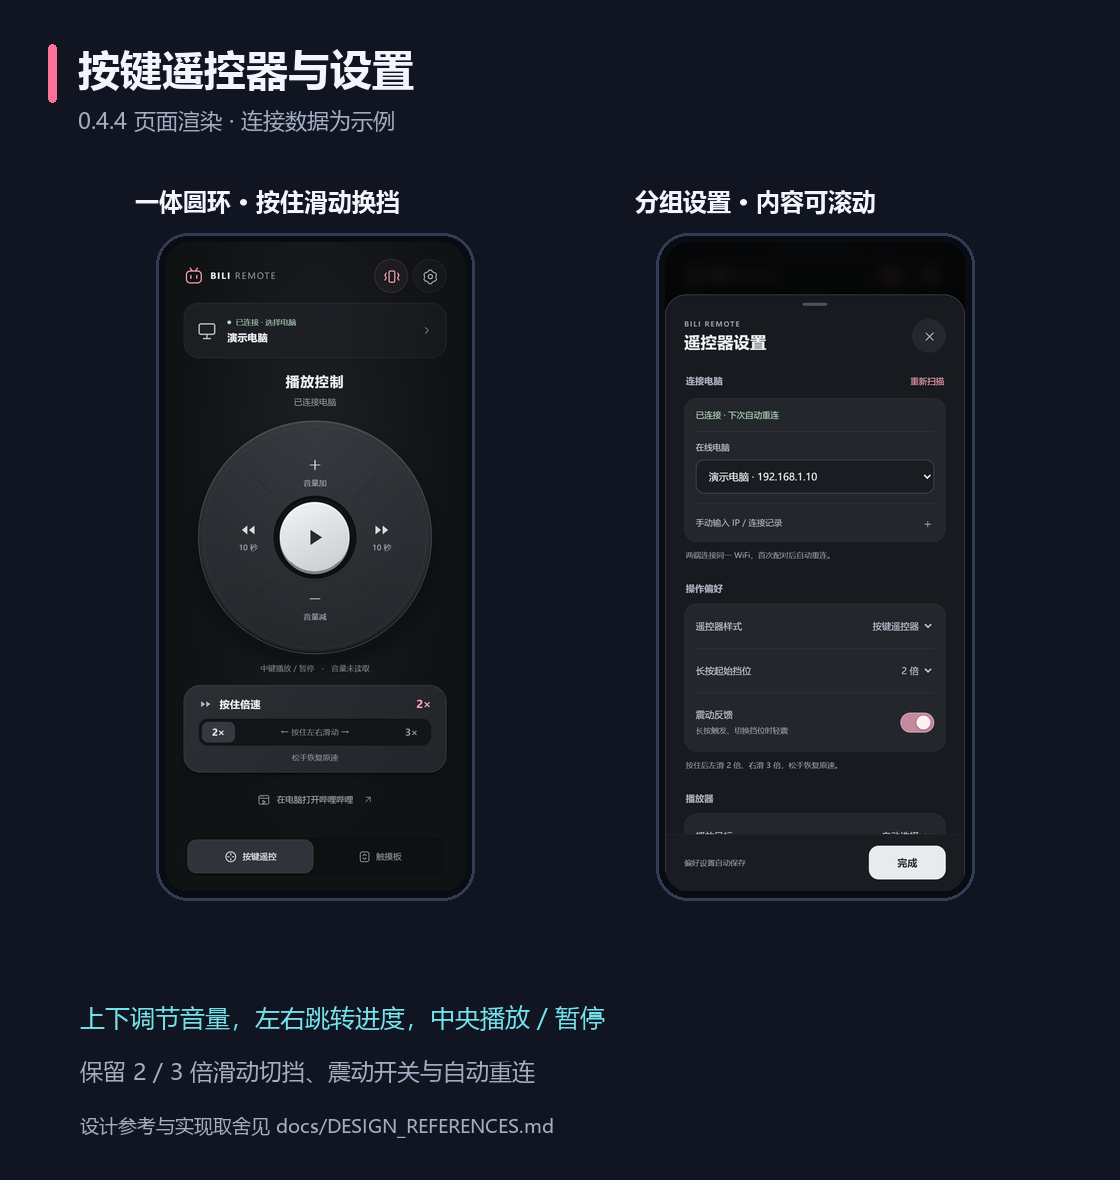
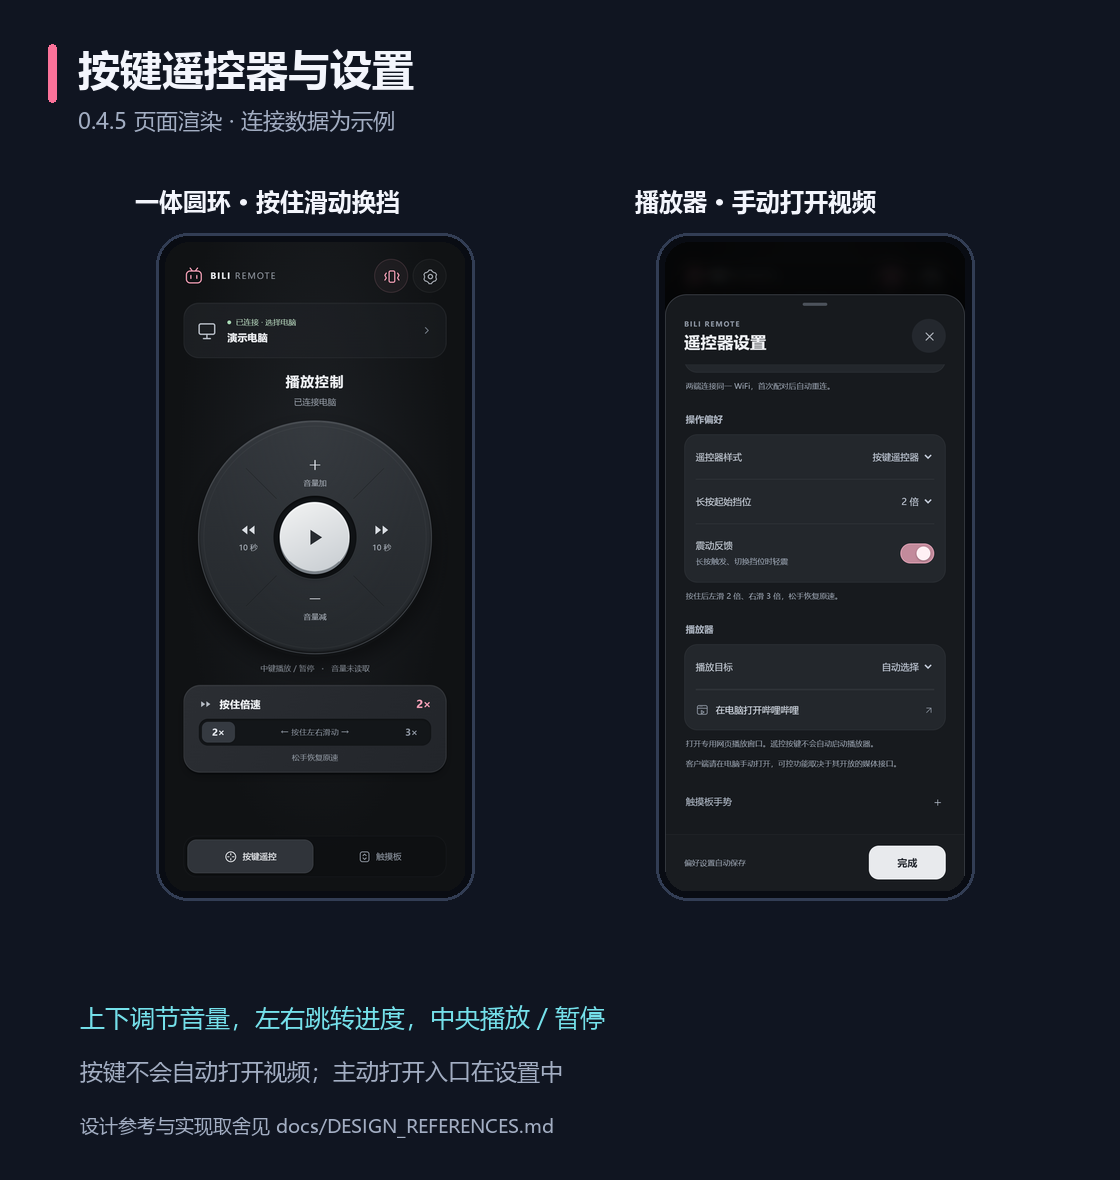
fix: open playback windows only on explicit user action

diff --git a/android/app/src/main/assets/index.html b/android/app/src/main/assets/index.html
@@ -18,7 +18,6 @@
   </section>
   <div class="playback-status"><span>中键播放 / 暂停</span><span class="status-divider"></span><span id="volumeText" aria-live="polite">音量未读取</span></div>
   <button id="holdSpeed" class="hold-speed" aria-label="按住倍速，左滑 2 倍，右滑 3 倍"><span class="speed-topline"><svg viewBox="0 0 24 24" aria-hidden="true"><path d="m4 7 7 5-7 5Zm9 0 7 5-7 5Z"/></svg><span class="speed-copy">按住倍速</span><span id="holdRate">2×</span></span><span class="speed-track" aria-hidden="true"><span class="speed-detent detent-two">2×</span><span class="speed-direction">← 按住左右滑动 →</span><span class="speed-detent detent-three">3×</span></span><span class="speed-caption">松手恢复原速</span></button>
-  <button id="launchBrowser" class="launch-browser"><svg viewBox="0 0 24 24" aria-hidden="true"><rect x="3" y="4" width="18" height="16" rx="3"/><path d="M3 9h18m-13-3h.1m3 0h.1m-1 7 5 3-5 3Z"/></svg><span>在电脑打开哔哩哔哩</span><svg class="launch-arrow" viewBox="0 0 24 24" aria-hidden="true"><path d="M7 17 17 7M7 7h10v10"/></svg></button>
   <footer aria-label="遥控样式"><button class="style-tab selected" data-style="remote" aria-pressed="true"><svg viewBox="0 0 24 24" aria-hidden="true"><circle cx="12" cy="12" r="9"/><path d="M12 6v3m0 6v3m-6-6h3m6 0h3"/></svg>按键遥控</button><button class="style-tab" data-style="touchpad" aria-pressed="false"><svg viewBox="0 0 24 24" aria-hidden="true"><rect x="4" y="3" width="16" height="18" rx="4"/><path d="m9 10 3-3 3 3m-6 4 3 3 3-3"/></svg>触摸板</button></footer>
 </main>
 <div id="hud" role="status"></div>
@@ -39,7 +38,8 @@
     <section class="settings-section" aria-labelledby="playerTitle"><div class="section-title"><h3 id="playerTitle">播放器</h3></div><div class="settings-card">
       <label class="setting-row"><span>播放目标</span><select id="target"><option value="auto">自动选择</option><option value="browser">网页播放窗口</option><option value="native">Windows 客户端</option></select></label>
       <div id="nativeSettings" hidden><label class="computer-field">媒体会话<select id="session"><option value="">自动识别哔哩哔哩</option></select></label><button type="button" id="discover" class="secondary">检测客户端</button></div>
-    </div><p class="section-note">客户端可控功能取决于其开放的媒体接口。</p></section>
+      <button id="launchBrowser" type="button" class="launch-browser"><svg viewBox="0 0 24 24" aria-hidden="true"><rect x="3" y="4" width="18" height="16" rx="3"/><path d="M3 9h18m-13-3h.1m3 0h.1m-1 7 5 3-5 3Z"/></svg><span>在电脑打开哔哩哔哩</span><svg class="launch-arrow" viewBox="0 0 24 24" aria-hidden="true"><path d="M7 17 17 7M7 7h10v10"/></svg></button>
+    </div><p id="browserMessage" class="section-note" role="status">打开专用网页播放窗口。遥控按键不会自动启动播放器。</p><p class="section-note">客户端请在电脑手动打开，可控功能取决于其开放的媒体接口。</p></section>
     <details class="gesture-guide"><summary>触摸板手势<span aria-hidden="true">＋</span></summary><dl><div><dt>轻点</dt><dd>播放 / 暂停</dd></div><div><dt>上下滑</dt><dd>调节音量</dd></div><div><dt>左右滑</dt><dd>快进 / 快退</dd></div><div><dt>原地长按</dt><dd>临时倍速</dd></div></dl><p class="section-note">双指触摸或 Android 返回键打开设置。</p></details>
   </div>
   <div class="sheet-actions"><span>偏好设置自动保存</span><button type="submit" class="primary">完成</button></div>

diff --git a/android/app/src/main/assets/app.css b/android/app/src/main/assets/app.css
@@ -62,9 +62,10 @@ body.connected .device-caption{color:#b0cfb7}
 .speed-caption{text-align:center;color:#959da7;font-size:10px;line-height:1.2}
 .hold-speed.holding{border-color:#f6a0b780;background:#30272c;box-shadow:inset 0 2px 6px #0005,0 1px 0 #0a0c0e;transform:translateY(2px)}
 .holding:not(.gear-three) .detent-two,.holding.gear-three .detent-three{background:var(--accent);color:#332029}
-.launch-browser{display:flex;justify-content:center;align-items:center;gap:9px;min-height:44px;padding:8px;border:0;border-radius:12px;background:transparent;color:#a5acb6;font-size:11px}
+.launch-browser{display:flex;align-items:center;gap:9px;width:100%;min-height:52px;padding:12px 0;border:0;border-top:1px solid var(--line);background:transparent;color:#d4dbe5;font-size:12px;text-align:left}
+.launch-browser:disabled{opacity:.5;cursor:wait}
 .launch-browser svg{width:17px;height:17px;color:#8a929e}
-.launch-browser .launch-arrow{width:14px;height:14px;margin-left:3px}
+.launch-browser .launch-arrow{width:14px;height:14px;margin-left:auto}
 #remote footer{display:flex;align-items:center;gap:4px;padding:4px;margin-top:auto;border:1px solid #ffffff08;border-radius:17px;background:#090c0f66}
 .style-tab{display:flex;align-items:center;justify-content:center;gap:7px;flex:1;min-height:44px;padding:10px 8px;border:1px solid transparent;border-radius:12px;background:transparent;color:#929aa5;font-size:11px;white-space:nowrap}
 .style-tab svg{width:17px;height:17px}

diff --git a/android/app/src/main/assets/app.js b/android/app/src/main/assets/app.js
@@ -180,7 +180,19 @@ document.querySelectorAll("[data-command]").forEach(button => button.onclick = a
     else if (cmd === "toggle") byId("remoteMessage").textContent = "已发送播放操作";
   } catch (failure) { error(failure); }
 });
-byId("launchBrowser").onclick = () => send("open_browser").then(() => hint("已在电脑打开哔哩哔哩，请选择视频")).catch(error);
+byId("launchBrowser").onclick = async () => {
+  const button = byId("launchBrowser"), message = byId("browserMessage");
+  button.disabled = true;
+  message.textContent = "正在电脑打开哔哩哔哩…";
+  try {
+    await send("open_browser");
+    message.textContent = "已在电脑打开网页播放窗口，请选择视频。";
+    hint(message.textContent);
+  } catch (failure) {
+    message.textContent = failure.message || String(failure);
+    error(failure);
+  } finally { button.disabled = false; }
+};
 const speedButton = byId("holdSpeed");
 speedButton.onpointerdown = event => {
   if (speedPointer !== null || (event.pointerType === "mouse" && event.button !== 0)) return;

diff --git a/scripts/build_docs_images.py b/scripts/build_docs_images.py
@@ -126,6 +126,9 @@ def capture_mobile():
                             page.screenshot(path=str(RAW / "mobile-settings.png"))
                             page.locator("#manualDetails summary").click()
                             page.screenshot(path=str(RAW / "mobile-history.png"))
+                            page.locator("#manualDetails summary").click()
+                            page.locator("#launchBrowser").scroll_into_view_if_needed()
+                            page.screenshot(path=str(RAW / "mobile-player-settings.png"))
                     context.close()
             finally:
                 browser.close()
@@ -243,13 +246,13 @@ def build_mobile_setup():
 
 
 def build_redesign():
-    image, draw = canvas(1120, 1180, "按键遥控器与设置", "0.4.4 页面渲染 · 连接数据为示例")
+    image, draw = canvas(1120, 1180, "按键遥控器与设置", "0.4.5 页面渲染 · 连接数据为示例")
     for x, title, path in [(165, "一体圆环 · 按住滑动换挡", "mobile-remote.png"),
-                           (665, "分组设置 · 内容可滚动", "mobile-settings.png")]:
+                           (665, "播放器 · 手动打开视频", "mobile-player-settings.png")]:
         text(draw, (x - 30, 184), title, 24, bold=True)
         phone(image, RAW / path, x, 242, 300)
     text(draw, (80, 1000), "上下调节音量，左右跳转进度，中央播放 / 暂停", 25, CYAN)
-    text(draw, (80, 1055), "保留 2 / 3 倍滑动切挡、震动开关与自动重连", 23, MUTED)
+    text(draw, (80, 1055), "按键不会自动打开视频；主动打开入口在设置中", 23, MUTED)
     text(draw, (80, 1112), "设计参考与实现取舍见 docs/DESIGN_REFERENCES.md", 19, MUTED)
     image.save(OUTPUT / "remote-redesign.png", optimize=True)
 
@@ -344,7 +347,7 @@ def build_hero():
     text(draw, (86, 550), "传统遥控器  /  纯黑触摸板", 28)
     draw.rounded_rectangle((82, 640, 664, 705), 16, fill="#263146")
     text(draw, (106, 655), "同一局域网 · 首次配对 · 后续自动重连", 25, CYAN)
-    text(draw, (85, 773), "v0.4.4  ·  Windows + Android", 24, MUTED)
+    text(draw, (85, 773), "v0.4.5  ·  Windows + Android", 24, MUTED)
     phone(image, RAW / "mobile-touchpad.png", 900, 145, 245)
     phone(image, RAW / "mobile-remote.png", 1220, 85, 265)
     text(draw, (925, 714), "纯黑手势区域", 24, MUTED)

diff --git a/desktop/browser.py b/desktop/browser.py
@@ -135,7 +135,8 @@ class BrowserController:
             pass
         return None
 
-    async def _ensure(self):
+    async def _ensure(self, *, allow_launch=False):
+        """Attach to our existing browser; only an explicit open may launch it."""
         if self.running:
             try:
                 version = await asyncio.to_thread(self._json, "/json/version")
@@ -146,9 +147,7 @@ class BrowserController:
         self.port = None
         self.browser_socket = None
         self.browser_process = None
-        self.profile.mkdir(parents=True, exist_ok=True)
         self.executable = self.executable or find_browser()
-        active_port = self.profile / "DevToolsActivePort"
         owner = await asyncio.to_thread(self._profile_process)
         if owner:
             endpoint = await asyncio.to_thread(self._read_endpoint, owner)
@@ -158,7 +157,11 @@ class BrowserController:
                 self.port, self.browser_socket = endpoint
                 self.browser_process = owner
                 return
-        else:
+        if not allow_launch:
+            raise RuntimeError("未发现可控制的哔哩哔哩播放窗口；请手动打开客户端并播放视频，或在手机设置的“播放器”中点击“在电脑打开哔哩哔哩”")
+        self.profile.mkdir(parents=True, exist_ok=True)
+        active_port = self.profile / "DevToolsActivePort"
+        if not owner:
             # Remove stale metadata only after verifying no browser owns the profile.
             active_port.unlink(missing_ok=True)
         arguments = [str(self.executable), "--remote-debugging-port=0", "--remote-debugging-address=127.0.0.1", "--user-data-dir=" + str(self.profile), "--no-first-run", "--no-default-browser-check"]
@@ -191,7 +194,7 @@ class BrowserController:
 
     async def open(self):
         async with self.lock:
-            await self._ensure()
+            await self._ensure(allow_launch=True)
             if self.browser_socket:
                 pages = await asyncio.to_thread(self._json, "/json/list")
                 pages = [page for page in pages if page.get("type") == "page" and self.allowed(page.get("url", ""))]

diff --git a/tests/test_browser.py b/tests/test_browser.py
@@ -65,6 +65,10 @@ async def test_direct_browser_playback_without_extensions(tmp_path):
         assert (await browser.execute({"cmd": "status"}, "phone"))["rate"] == 3
         await browser.execute({"cmd": "speed_end"}, "phone")
         assert (await browser.execute({"cmd": "status"}, "phone"))["rate"] == 1.5
+        # A fresh controller can attach to the already opened window without opening another.
+        attached = BrowserController(profile=browser.profile, executable=executable, allowed_hosts={"127.0.0.1"}, headless=True)
+        assert (await attached.execute({"cmd": "status"}, "phone"))["rate"] == 1.5
+        assert attached.process is None
         await browser.execute({"cmd": "speed_start", "rate": 2}, "phone")
         browser.boost["deadline"] = 0
         assert await browser.expire()
@@ -101,6 +105,27 @@ async def test_existing_playback_window_is_reused_and_endpoint_preserved(tmp_pat
     finally:
         await reused.close()
         await original.close()
+
+
+@pytest.mark.asyncio
+async def test_manual_window_close_is_not_undone_by_remote_commands(tmp_path, monkeypatch):
+    browser = BrowserController(profile=tmp_path / "profile", launch_url="about:blank", headless=True)
+    try:
+        await browser.open()
+        await browser.rpc(browser.browser_socket, "Browser.close")
+        await asyncio.to_thread(browser.browser_process.wait, 5)
+        def unexpected_launch(*args, **kwargs):
+            raise AssertionError("A closed playback window must stay closed")
+        with monkeypatch.context() as context:
+            context.setattr("desktop.browser.subprocess.Popen", unexpected_launch)
+            with pytest.raises(RuntimeError, match="手机设置"):
+                await browser.execute({"cmd": "toggle"}, "phone")
+        assert not browser.running
+        # Only the explicit open action can create another playback window.
+        assert (await browser.open())["opened"]
+        assert browser.running
+    finally:
+        await browser.close()
 
 
 @pytest.mark.asyncio

diff --git a/tests/test_relay.py b/tests/test_relay.py
@@ -6,6 +6,7 @@ from websockets.asyncio.client import connect
 from websockets.asyncio.server import serve
 from websockets.exceptions import ConnectionClosed
 from desktop.server import Relay
+from desktop.browser import BrowserController
 from desktop.trust import TrustStore
 
 
@@ -35,6 +36,32 @@ class FakeBrowser:
 
 def make_relay(tmp_path, feedback=None):
     return Relay(NoNative(), trust=TrustStore(tmp_path / "trust.json"), browser=FakeBrowser(), feedback=feedback)
+
+
+@pytest.mark.asyncio
+@pytest.mark.parametrize("target", ["auto", "browser"])
+@pytest.mark.parametrize("message", [
+    {"cmd": "toggle"}, {"cmd": "seek", "delta": -10}, {"cmd": "seek", "delta": 10},
+    {"cmd": "volume", "delta": -.05}, {"cmd": "volume", "delta": .05},
+    {"cmd": "speed_start", "rate": 2}, {"cmd": "status"},
+])
+async def test_remote_commands_never_launch_a_closed_browser(tmp_path, monkeypatch, target, message):
+    profile = tmp_path / "profile"
+    profile.mkdir()
+    stale_endpoint = profile / "DevToolsActivePort"
+    stale_endpoint.write_bytes(b"stale endpoint must remain unchanged")
+    browser = BrowserController(profile=profile, executable=tmp_path / "msedge.exe")
+    monkeypatch.setattr(browser, "_profile_process", lambda: None)
+    def unexpected_launch(*args, **kwargs):
+        raise AssertionError("Remote commands must never launch a browser")
+    monkeypatch.setattr("desktop.browser.subprocess.Popen", unexpected_launch)
+    relay = Relay(NoNative(), trust=TrustStore(tmp_path / "trust.json"), browser=browser)
+    with pytest.raises(RuntimeError, match="手机设置"):
+        await relay.execute({**message, "target": target}, "phone")
+    await relay.release("phone")
+    assert not browser.running and browser.process is None
+    assert not relay.held_targets
+    assert stale_endpoint.read_bytes() == b"stale endpoint must remain unchanged"
 
 
 async def authenticate(ws, token="", device_id="phone-1234", pin=""):

diff --git a/scripts/smoke_remote_layout.py b/scripts/smoke_remote_layout.py
@@ -60,6 +60,7 @@ with sync_playwright() as p:
             page.wait_for_function('window.sentCommands.filter(m=>m.cmd && m.cmd!=="ping").length===5')
             commands=page.evaluate('window.sentCommands.filter(m=>m.cmd && m.cmd!=="ping").map(({cmd,delta})=>({cmd,...(delta===undefined?{}:{delta})}))')
             assert commands==[{'cmd':'volume','delta':0.05},{'cmd':'volume','delta':-0.05},{'cmd':'seek','delta':-10},{'cmd':'seek','delta':10},{'cmd':'toggle'}],commands
+            assert page.locator('#remote #launchBrowser').count()==0
             # The sheet header/actions remain reachable while its content scrolls.
             page.locator('#deviceStatus').click()
             page.locator('#settings[open]').wait_for()
@@ -73,6 +74,11 @@ with sync_playwright() as p:
             page.locator('#target').select_option('native')
             assert page.locator('#nativeSettings').is_visible()
             page.locator('#discover').scroll_into_view_if_needed()
+            assert page.evaluate('window.sentCommands.filter(m=>m.cmd==="open_browser").length')==0
+            page.locator('#settings #launchBrowser').click()
+            page.wait_for_function('window.sentCommands.filter(m=>m.cmd==="open_browser").length===1 && !document.querySelector("#launchBrowser").disabled')
+            assert page.locator('#settings').evaluate('e=>e.open'), 'Opening a player must not submit the settings form'
+            assert '已在电脑打开' in page.locator('#browserMessage').inner_text()
             page.locator('#target').select_option('auto')
             assert page.locator('#nativeSettings').is_hidden()
             page.locator('#rate').select_option('3')

diff --git a/docs/USAGE.md b/docs/USAGE.md
@@ -2,7 +2,7 @@
 
 [项目首页](../README.md) · [快速上手](QUICK_START.md) · [常见问题](FAQ.md) · [开发说明](DEVELOPMENT.md)
 
-适用版本：**0.4.4**。配图使用当前代码渲染界面，连接信息均为示例；手势图上的触点和箭头是教学标注，不是 App 中常驻的按钮。
+适用版本：**0.4.5**。配图使用当前代码渲染界面，连接信息均为示例；手势图上的触点和箭头是教学标注，不是 App 中常驻的按钮。
 
 ## 连接电脑
 
@@ -65,7 +65,7 @@
 | 播放键上方 `+` / 下方 `−` | 每次增加 / 减少音量 5% |
 | 倍速键 | 按住进入临时倍速，保持按住后左滑 2 倍 / 右滑 3 倍，松开恢复原速度 |
 | 右上角手机震动图标 | 开启 / 关闭震动反馈，粉色表示开启 |
-| “在电脑打开哔哩哔哩” | 让电脑打开专用网页播放窗口 |
+| 设置 → 播放器 → 在电脑打开哔哩哔哩 | 主动打开专用网页播放窗口，触摸板模式也可使用 |
 | 右上角齿轮 | 进入连接与设置 |
 
 设置采用底部面板，分为连接电脑、操作偏好、播放器。内容可上下滚动，关闭与“完成”按钮始终可见；偏好修改即时保存。顶部设备卡片也可打开连接设置。手动地址与手势说明默认折叠。
@@ -101,7 +101,9 @@
 
 ![电脑端的播放入口与配对信息](images/desktop-main.png)
 
-在电脑端点击 **“打开哔哩哔哩 · 无需扩展”**，然后在弹出的浏览器窗口中选视频。软件使用电脑已安装的 Edge / Chrome，不捆绑浏览器内核，不需要手动设置调试端口或安装扩展。
+在电脑端点击 **“打开哔哩哔哩 · 无需扩展”**，或在安卓端 **“设置 → 播放器”** 点击 **“在电脑打开哔哩哔哩”**，然后在弹出的浏览器窗口中选视频。软件使用电脑已安装的 Edge / Chrome，不捆绑浏览器内核，不需要手动设置调试端口或安装扩展。
+
+普通遥控按键、触摸板手势及连接操作不会启动浏览器。关闭播放窗口后，再点击遥控按键也不会重新打开；没有可控制的窗口时显示提示。需要打开网页时，请明确使用上述入口。Windows 客户端需在电脑手动打开并播放视频。
 
 这个窗口使用专用的浏览器资料目录，所以第一次可能需要重新登录哔哩哔哩；之后保留该目录内的登录资料。登录仍可能按网站规则过期。退出电脑端会关闭专用播放窗口，不会关闭平时使用的普通浏览器。
 

diff --git a/docs/DEVELOPMENT.md b/docs/DEVELOPMENT.md
@@ -2,7 +2,7 @@
 
 [项目首页](../README.md) · [使用指南](USAGE.md) · [常见问题](FAQ.md)
 
-本页面向维护者。当前项目版本为 **0.4.4**，安卓 `versionCode` 为 **8**。主要开发环境为 Windows、Python 3.12、JDK 17 和 Android SDK 35。
+本页面向维护者。当前项目版本为 **0.4.5**，安卓 `versionCode` 为 **9**。主要开发环境为 Windows、Python 3.12、JDK 17 和 Android SDK 35。
 
 ## 项目结构
 
@@ -117,13 +117,13 @@ Python 便携构建、Gradle debug 和 release 构建均使用同一签名，并
 node --test tests/*.test.cjs
 .\.venv\Scripts\python.exe scripts/smoke_gui.py
 .\.venv\Scripts\python.exe scripts/smoke_installer.py
-.\.venv\Scripts\python.exe scripts/smoke_upgrade.py --baseline .tooling/upgrade-baseline-0.4.3
+.\.venv\Scripts\python.exe scripts/smoke_upgrade.py --baseline .tooling/upgrade-baseline-0.4.4
 .\.venv\Scripts\python.exe scripts/verify_apk_upgrade.py 旧版.apk dist/bili-remote-debug.apk
 ```
 
 遥控器布局另可运行 `python scripts/smoke_remote_layout.py`（需要 `pip install playwright` 和本机 Edge / Chrome）。它用隔离连接夹具验证 7 种屏幕尺寸下的圆环边界、上下左右位置、至少 44px 触控区域和按键指令；并使用真实指针事件检查两种模式的长按切挡、震动调用次数与开关持久化，不代表安卓实机震动测试。
 
-升级基线目录需包含原 `BiliRemote.iss` 和 `BiliRemote-Desktop.exe`。升级冒烟脚本从旧新安装脚本读取版本，当前使用 0.4.3 → 0.4.4 的基线验证。安装与升级冒烟脚本会使用独立程序身份、目录和端口，不应测试在用户正式安装上。
+升级基线目录需包含原 `BiliRemote.iss` 和 `BiliRemote-Desktop.exe`。升级冒烟脚本从旧新安装脚本读取版本，当前使用 0.4.4 → 0.4.5 的基线验证。安装与升级冒烟脚本会使用独立程序身份、目录和端口，不应测试在用户正式安装上。
 
 | 已验证范围 | 当前证据 |
 | --- | --- |

diff --git a/README.md b/README.md
@@ -4,9 +4,9 @@
 
 ![Bili Remote：传统遥控器与纯黑触摸板界面预览](docs/images/overview.png)
 
-**当前版本：0.4.4** · Windows + Android · 局域网连接 · 无需浏览器扩展
+**当前版本：0.4.5** · Windows + Android · 局域网连接 · 无需浏览器扩展
 
-0.4.4 重新设计一体圆环、设备入口和双挡倍速区，设置按连接、操作偏好、播放器分组。详见[更新记录](CHANGELOG.md)。
+0.4.5 修复遥控按键自动打开网页的问题。请手动打开播放器，或在手机“设置 → 播放器”中点击“在电脑打开哔哩哔哩”。详见[更新记录](CHANGELOG.md)。
 
 ## 先从这里开始
 
@@ -39,7 +39,7 @@
 1. 电脑安装 `BiliRemote-Setup.exe`，手机安装 `bili-remote-debug.apk`。电脑无需安装 Python。
 2. 两端接入同一路由器；电脑接网线、手机连 WiFi 也可以。打开电脑软件。
 3. 手机自动发现电脑，首次输入电脑端显示的 **6 位配对码**。
-4. 在电脑软件点击 **“打开哔哩哔哩 · 无需扩展”**，在打开的播放窗口中选一个视频。
+4. 在电脑软件点击 **“打开哔哩哔哩 · 无需扩展”**，或在手机 **“设置 → 播放器 → 在电脑打开哔哩哔哩”** 中主动打开播放窗口，再选一个视频。
 5. 手机开始遥控。后续保留授权，电脑在线时可自动重连。
 
 安装包由维护者提供，构建输出位于 `dist/`；Git 源码下载包不包含安装包。已有构建文件时只需要上面两个文件，其余文件的用途见[安装包说明](docs/FAQ.md)。

diff --git a/docs/QUICK_START.md b/docs/QUICK_START.md
@@ -43,11 +43,11 @@
 
 第一次使用建议先试网页播放：
 
-1. 在电脑软件点击 **“打开哔哩哔哩 · 无需扩展”**；也可从手机传统遥控器点击“打开电脑上的哔哩哔哩”。
+1. 在电脑软件点击 **“打开哔哩哔哩 · 无需扩展”**；也可从手机 **“设置 → 播放器”** 点击 **“在电脑打开哔哩哔哩”**，两种遥控样式都能进入该设置。
 2. 在软件打开的 Edge / Chrome 窗口中选一个视频，等待视频能够播放。
 3. 如需登录，在这个窗口中登录哔哩哔哩。它使用独立资料，平时浏览器中的登录状态不会自动共享。
 
-此窗口不需要安装扩展。直接在平时浏览器里打开视频，无法保证被遥控。希望使用 Windows 客户端时，见[使用指南](USAGE.md)中的播放器选择说明。
+此窗口不需要安装扩展。遥控按键和触摸板手势不会自动启动播放器；请先按上述步骤主动打开。直接在平时浏览器里打开视频，无法保证被遥控。Windows 客户端请在电脑手动打开并播放视频，见[使用指南](USAGE.md)中的播放器选择说明。
 
 ## 5. 试一次暂停、音量和倍速
 
